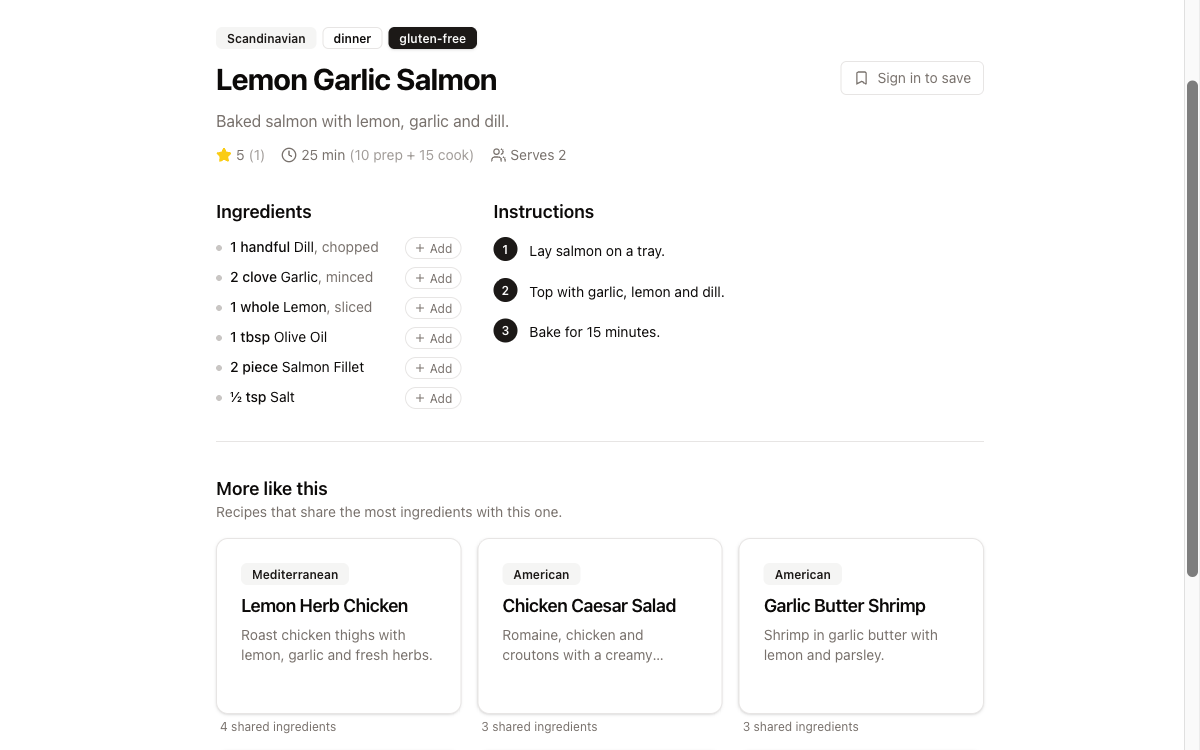
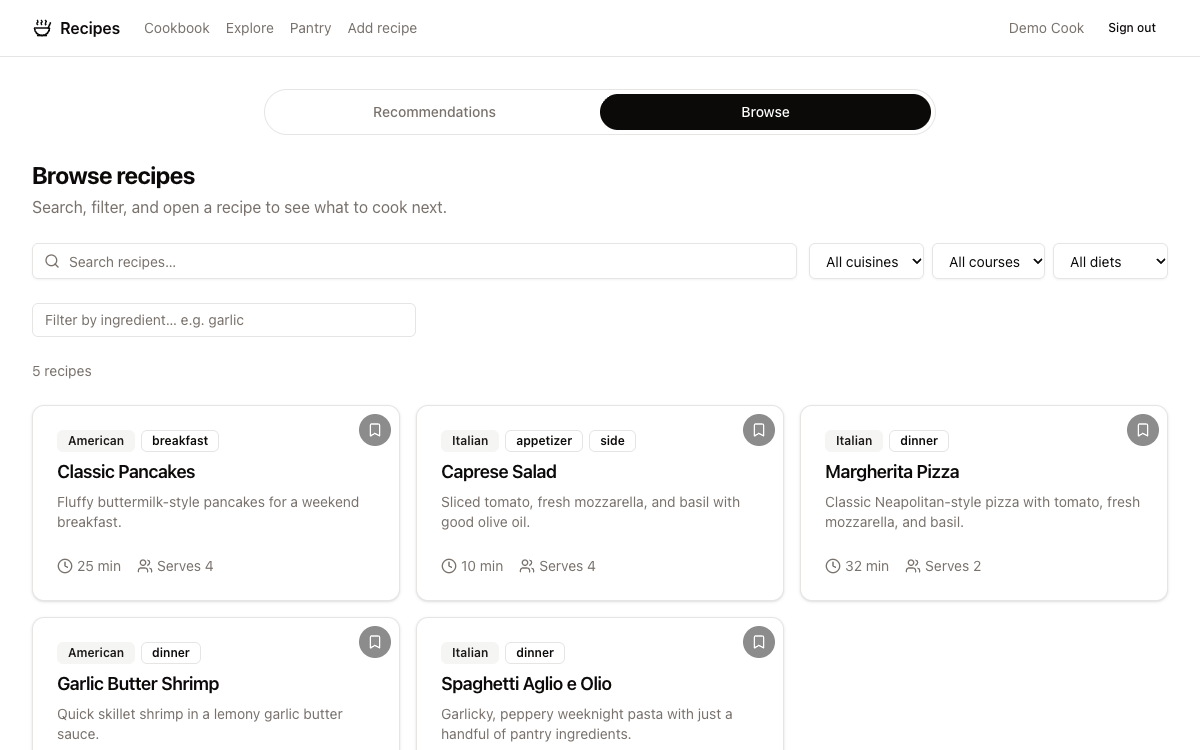
Reorder Apps, add the education and crime paper, move Legal below Data Science
- Recipe Recommendation System gets its own wide row with a new browse-page picture
- Apps rows: Better Habits, Rent vs. Own, Time Tracker; Budget, learning_app, Typing Trainer
- Data Science opens with "Education and Crime across America: Inequity's Cost" (Figure 3a)
- Section order: Apps, Data Science, Legal, About, Contact

diff --git a/index.html b/index.html
@@ -236,6 +236,7 @@ a:focus-visible, button:focus-visible { outline: 3px solid var(--focus); outline
 /* Legal: one full-width feature card (picture left from 992px), then text-only skill cards */
 .cards.feature-row { display: block; }
 .cards.feature-row + .subhead { margin-top: 80px; }
+.cards.feature-row + .cards { margin-top: 30px; }
 @media (min-width: 992px) {
   .cards article.feature {
     display: grid; grid-template-columns: 55% minmax(0, 1fr);
@@ -335,8 +336,8 @@ footer .footer-links a:hover { color: var(--primary); text-decoration: underline
     <nav id="site-nav" class="site-nav" aria-label="Main">
       <ul>
         <li><a href="#apps">Apps</a></li>
-        <li><a href="#legal">Legal</a></li>
         <li><a href="#data-science">Data Science</a></li>
+        <li><a href="#legal">Legal</a></li>
         <li><a href="#about">About</a></li>
         <li><a href="#contact">Contact</a></li>
       </ul>
@@ -355,35 +356,16 @@ footer .footer-links a:hover { color: var(--primary); text-decoration: underline
   <section class="section" id="apps" aria-labelledby="apps-h">
     <div class="container">
       <div class="section-title"><h2 id="apps-h">Apps</h2></div>
+      <div class="cards feature-row">
+      <article class="feature">
+        <h3>Recipe Recommendation System</h3>
+        <figure><a href="https://recipe-recommendation-system-theta.vercel.app" rel="noopener" aria-label="Open the Recipe Recommendation System site, sign-in required"><img src="img/recipe-recommender.png" alt="Screenshot of the Recipe Recommendation System's browse page with search, filters and a grid of recipes" width="1200" height="750" loading="lazy" decoding="async"></a><figcaption>Browsing recipes</figcaption></figure>
+        <p>A recipe app for a circle of friends in which recipes and ingredients live in a Neo4j graph. Recommendations come from graph traversal (shared ingredients, friends' ratings, and pantry matching) rather than a black-box model, and new recipes are structured into the graph from pasted text or photos.</p>
+        <p class="stack">Built with: Neo4j, Next.js (React), Tailwind, Claude API</p>
+        <p class="live"><a href="https://recipe-recommendation-system-theta.vercel.app" rel="noopener">Open the site (sign-in required)</a></p>
+      </article>
+      </div>
       <div class="cards">
-      <article>
-        <h3>Budget</h3>
-        <figure><a href="https://jamesades.com/budget-app/" aria-label="Open the Budget app"><img src="img/budget.png" alt="Screenshot of the Budget app's monthly view with spending by category" width="1200" height="750" loading="lazy" decoding="async"></a><figcaption>Monthly spending by category</figcaption></figure>
-        <p>A private budget tracker for logging each spend as it happens and watching monthly totals build up by category. Charts show the current month by category and the last six months side by side, and data stays in the browser, with optional sync across devices and CSV export.</p>
-        <p class="stack">Built with: HTML, Chart.js; installable as a web app</p>
-        <p class="live"><a href="https://jamesades.com/budget-app/">Open the app</a></p>
-      </article>
-      <article>
-        <h3>Time Tracker + Pomodoro</h3>
-        <figure><a href="https://jamesades.com/work_tracking/" aria-label="Open the Time Tracker app"><img src="img/time-tracker.png" alt="Screenshot of the Time Tracker's Pomodoro timer and daily timeline" width="1200" height="750" loading="lazy" decoding="async"></a><figcaption>Timer and daily timeline</figcaption></figure>
-        <p>A personal time-tracking web app with a built-in Pomodoro timer: create tasks, track time on each, and work in focus periods with breaks. Tracked time appears on a daily timeline as it accrues, and data syncs across laptop and phone.</p>
-        <p class="stack">Built with: JavaScript, HTML, CSS, Supabase, GitHub Pages</p>
-        <p class="live"><a href="https://jamesades.com/work_tracking/">Open the app</a></p>
-      </article>
-      <article>
-        <h3>Adaptive Typing Trainer</h3>
-        <figure><a href="https://jamesades.com/typing_app/" aria-label="Open the Adaptive Typing Trainer app"><img src="img/typing-trainer.png" alt="Screenshot of the Adaptive Typing Trainer's practice screen with the finger-coded keyboard" width="1200" height="750" loading="lazy" decoding="async"></a><figcaption>Practice screen</figcaption></figure>
-        <p>A browser-based typing trainer that has you type real words and sentences while it finds the few keys you are weak on and drills those. A separate beginner course teaches key locations one at a time, with the correct finger shown for every key.</p>
-        <p class="stack">Built with: JavaScript, no dependencies</p>
-        <p class="live"><a href="https://jamesades.com/typing_app/">Open the app</a></p>
-      </article>
-      <article>
-        <h3>learning_app</h3>
-        <figure><a href="https://jamesades.com/learning_app/" aria-label="Open the learning_app app"><img src="img/learning-app.png" alt="Screenshot of learning_app's graph canvas during a review" width="1200" height="750" loading="lazy" decoding="async"></a><figcaption>Studying on the graph</figcaption></figure>
-        <p>A graph-based spaced-repetition tool: you build a spatial graph of ideas and study it by reconstructing it from memory. Due nodes light up on the graph, hints are given only as needed, and reviews are scheduled with FSRS. It works fully offline, with optional cloud sync.</p>
-        <p class="stack">Built with: TypeScript, React, Vite, React Flow, ts-fsrs, Dexie/IndexedDB, Supabase</p>
-        <p class="live"><a href="https://jamesades.com/learning_app/">Open the app</a></p>
-      </article>
       <article>
         <h3>Better Habits</h3>
         <figure><img src="img/better-habits.png" alt="Screenshot of the Better Habits daily check-in screen on iPhone" width="1200" height="750" loading="lazy" decoding="async"><figcaption>Daily check-in</figcaption></figure>
@@ -397,17 +379,80 @@ footer .footer-links a:hover { color: var(--primary); text-decoration: underline
         <p class="stack">Built with: Python, HTML</p>
       </article>
       <article>
-        <h3>Recipe Recommendation System</h3>
-        <figure><a href="https://recipe-recommendation-system-theta.vercel.app" rel="noopener" aria-label="Open the Recipe Recommendation System site, sign-in required"><img src="img/recipe-recommender.png" alt="Screenshot of the Recipe Recommendation System's recipe page with similar recipes" width="1200" height="750" loading="lazy" decoding="async"></a><figcaption>A recipe and its graph neighbors</figcaption></figure>
-        <p>A recipe app for a circle of friends in which recipes and ingredients live in a Neo4j graph. Recommendations come from graph traversal (shared ingredients, friends' ratings, and pantry matching) rather than a black-box model, and new recipes are structured into the graph from pasted text or photos.</p>
-        <p class="stack">Built with: Neo4j, Next.js (React), Tailwind, Claude API</p>
-        <p class="live"><a href="https://recipe-recommendation-system-theta.vercel.app" rel="noopener">Open the site (sign-in required)</a></p>
+        <h3>Time Tracker + Pomodoro</h3>
+        <figure><a href="https://jamesades.com/work_tracking/" aria-label="Open the Time Tracker app"><img src="img/time-tracker.png" alt="Screenshot of the Time Tracker's Pomodoro timer and daily timeline" width="1200" height="750" loading="lazy" decoding="async"></a><figcaption>Timer and daily timeline</figcaption></figure>
+        <p>A personal time-tracking web app with a built-in Pomodoro timer: create tasks, track time on each, and work in focus periods with breaks. Tracked time appears on a daily timeline as it accrues, and data syncs across laptop and phone.</p>
+        <p class="stack">Built with: JavaScript, HTML, CSS, Supabase, GitHub Pages</p>
+        <p class="live"><a href="https://jamesades.com/work_tracking/">Open the app</a></p>
+      </article>
+      <article>
+        <h3>Budget</h3>
+        <figure><a href="https://jamesades.com/budget-app/" aria-label="Open the Budget app"><img src="img/budget.png" alt="Screenshot of the Budget app's monthly view with spending by category" width="1200" height="750" loading="lazy" decoding="async"></a><figcaption>Monthly spending by category</figcaption></figure>
+        <p>A private budget tracker for logging each spend as it happens and watching monthly totals build up by category. Charts show the current month by category and the last six months side by side, and data stays in the browser, with optional sync across devices and CSV export.</p>
+        <p class="stack">Built with: HTML, Chart.js; installable as a web app</p>
+        <p class="live"><a href="https://jamesades.com/budget-app/">Open the app</a></p>
+      </article>
+      <article>
+        <h3>learning_app</h3>
+        <figure><a href="https://jamesades.com/learning_app/" aria-label="Open the learning_app app"><img src="img/learning-app.png" alt="Screenshot of learning_app's graph canvas during a review" width="1200" height="750" loading="lazy" decoding="async"></a><figcaption>Studying on the graph</figcaption></figure>
+        <p>A graph-based spaced-repetition tool: you build a spatial graph of ideas and study it by reconstructing it from memory. Due nodes light up on the graph, hints are given only as needed, and reviews are scheduled with FSRS. It works fully offline, with optional cloud sync.</p>
+        <p class="stack">Built with: TypeScript, React, Vite, React Flow, ts-fsrs, Dexie/IndexedDB, Supabase</p>
+        <p class="live"><a href="https://jamesades.com/learning_app/">Open the app</a></p>
+      </article>
+      <article>
+        <h3>Adaptive Typing Trainer</h3>
+        <figure><a href="https://jamesades.com/typing_app/" aria-label="Open the Adaptive Typing Trainer app"><img src="img/typing-trainer.png" alt="Screenshot of the Adaptive Typing Trainer's practice screen with the finger-coded keyboard" width="1200" height="750" loading="lazy" decoding="async"></a><figcaption>Practice screen</figcaption></figure>
+        <p>A browser-based typing trainer that has you type real words and sentences while it finds the few keys you are weak on and drills those. A separate beginner course teaches key locations one at a time, with the correct finger shown for every key.</p>
+        <p class="stack">Built with: JavaScript, no dependencies</p>
+        <p class="live"><a href="https://jamesades.com/typing_app/">Open the app</a></p>
       </article>
       </div>
     </div>
   </section>
 
-  <section class="section alt" id="legal" aria-labelledby="legal-h">
+
+  <section class="section alt" id="data-science" aria-labelledby="ds-h">
+    <div class="container">
+      <div class="section-title"><h2 id="ds-h">Data Science</h2></div>
+      <div class="cards">
+      <article>
+        <h3>Education and Crime across America: Inequity&rsquo;s Cost</h3>
+        <figure><a href="https://doi.org/10.3390/socsci10080283" rel="noopener" aria-label="Read the paper"><img src="img/education-crime.png" alt="Scatterplots from the paper of student expenditure against property crime and violent crime, 2017, each with a fitted line" width="1200" height="750" loading="lazy" decoding="async"></a><figcaption>Crime by per-pupil spending, 2017 (Figure 3a)</figcaption></figure>
+        <p>A study published in <i>Social Sciences</i> (2021), with Jyoti Mishra, that joins FBI crime statistics for every reporting U.S. town and city with its school district&rsquo;s spending from 2003 to 2018, across more than 213 datasets. Linear mixed-effect models found about 2.35% less property crime for every $1,000 more a district spent per pupil, nearly four times the effect of a 10% rise in per capita income, and 4% more violent crime for every 10-point rise in chronic student absenteeism.</p>
+        <p class="live"><a href="https://doi.org/10.3390/socsci10080283" rel="noopener">Read the paper</a></p>
+      </article>
+      <article>
+        <h3>Behavioral-health network analysis (UC San Diego Health)</h3>
+        <figure><img src="img/network-analysis.png" alt="Map or network figure of behavioral-health services across San Diego County" width="1200" height="750" loading="lazy" decoding="async"><figcaption>Illustrative figure, invented data</figcaption></figure>
+        <p>A network-analysis tool to optimize behavioral-health services across San Diego County, pitched to County Behavioral Health, which adopted it. It is fed by a pipeline that cleans protected health information, provider and other data, with Tableau dashboards for stakeholders.</p>
+      </article>
+      <article>
+        <h3>Housing capstone project (UC San Diego)</h3>
+        <figure><img src="img/housing-capstone.png" alt="Screenshot of the capstone's Dash dashboard of San Diego housing data" width="1200" height="750" loading="lazy" decoding="async"><figcaption>Illustrative figure, invented data</figcaption></figure>
+        <p>A graduate capstone that collected Zillow listings, Yelp business data and 36 Census variables into PostgreSQL, then used XGBoost, random forest, multilevel and spatial regression models to identify high-value homes for low-income families. Results were presented in a Dash and Plotly dashboard and an ArcGIS StoryMap.</p>
+        <p class="stack">Built with: Python (Scrapy, Beautiful Soup, GeoPandas, PySpark, Dask), PostgreSQL, ArcGIS, Dash, Plotly</p>
+      </article>
+      <article>
+        <h3>Acquisitions data pipeline (Sammen)</h3>
+        <figure><img src="img/acquisitions-pipeline.png" alt="Chart comparing the hedonic pricing model with raw comparables" width="1200" height="750" loading="lazy" decoding="async"><figcaption>Illustrative figure, invented data</figcaption></figure>
+        <p>Extracts and structures LoopNet offering memoranda into a comparables dataset. A hedonic pricing model is fit to the data and cross-checked against raw comparables.</p>
+      </article>
+      <article>
+        <h3>spatial_package</h3>
+        <figure><img src="img/spatial-package.png" alt="Example output figure from spatial_package" width="1200" height="750" loading="lazy" decoding="async"><figcaption>Illustrative figure, invented data</figcaption></figure>
+        <p>Functions for spatial analyses.</p>
+      </article>
+      <article>
+        <h3>fspackage</h3>
+        <figure><img src="img/fspackage.png" alt="Example data quality report from fspackage" width="1200" height="750" loading="lazy" decoding="async"><figcaption>Illustrative figure, invented data</figcaption></figure>
+        <p>Data quality checks on FSP.</p>
+        <p class="stack">Built with: R</p>
+      </article>
+      <!-- TODO: ace_thresholds left out pending a description from James. -->
+      </div>
+    </div>
+  </section>
+  <section class="section" id="legal" aria-labelledby="legal-h">
     <div class="container">
       <div class="section-title"><h2 id="legal-h">Legal</h2></div>
       <div class="cards feature-row">
@@ -445,42 +490,6 @@ footer .footer-links a:hover { color: var(--primary); text-decoration: underline
         <h4>Verify the predicate</h4>
         <p>Before saying that a rule prohibits, requires, permits, or exempts something, checks that the rule's trigger condition is true of the situation. Quoting a rule proves that it exists, never that it applies.</p>
       </article>
-      </div>
-    </div>
-  </section>
-
-  <section class="section" id="data-science" aria-labelledby="ds-h">
-    <div class="container">
-      <div class="section-title"><h2 id="ds-h">Data Science</h2></div>
-      <div class="cards">
-      <article>
-        <h3>Behavioral-health network analysis (UC San Diego Health)</h3>
-        <figure><img src="img/network-analysis.png" alt="Map or network figure of behavioral-health services across San Diego County" width="1200" height="750" loading="lazy" decoding="async"><figcaption>Illustrative figure, invented data</figcaption></figure>
-        <p>A network-analysis tool to optimize behavioral-health services across San Diego County, pitched to County Behavioral Health, which adopted it. It is fed by a pipeline that cleans protected health information, provider and other data, with Tableau dashboards for stakeholders.</p>
-      </article>
-      <article>
-        <h3>Housing capstone project (UC San Diego)</h3>
-        <figure><img src="img/housing-capstone.png" alt="Screenshot of the capstone's Dash dashboard of San Diego housing data" width="1200" height="750" loading="lazy" decoding="async"><figcaption>Illustrative figure, invented data</figcaption></figure>
-        <p>A graduate capstone that collected Zillow listings, Yelp business data and 36 Census variables into PostgreSQL, then used XGBoost, random forest, multilevel and spatial regression models to identify high-value homes for low-income families. Results were presented in a Dash and Plotly dashboard and an ArcGIS StoryMap.</p>
-        <p class="stack">Built with: Python (Scrapy, Beautiful Soup, GeoPandas, PySpark, Dask), PostgreSQL, ArcGIS, Dash, Plotly</p>
-      </article>
-      <article>
-        <h3>Acquisitions data pipeline (Sammen)</h3>
-        <figure><img src="img/acquisitions-pipeline.png" alt="Chart comparing the hedonic pricing model with raw comparables" width="1200" height="750" loading="lazy" decoding="async"><figcaption>Illustrative figure, invented data</figcaption></figure>
-        <p>Extracts and structures LoopNet offering memoranda into a comparables dataset. A hedonic pricing model is fit to the data and cross-checked against raw comparables.</p>
-      </article>
-      <article>
-        <h3>spatial_package</h3>
-        <figure><img src="img/spatial-package.png" alt="Example output figure from spatial_package" width="1200" height="750" loading="lazy" decoding="async"><figcaption>Illustrative figure, invented data</figcaption></figure>
-        <p>Functions for spatial analyses.</p>
-      </article>
-      <article>
-        <h3>fspackage</h3>
-        <figure><img src="img/fspackage.png" alt="Example data quality report from fspackage" width="1200" height="750" loading="lazy" decoding="async"><figcaption>Illustrative figure, invented data</figcaption></figure>
-        <p>Data quality checks on FSP.</p>
-        <p class="stack">Built with: R</p>
-      </article>
-      <!-- TODO: ace_thresholds left out pending a description from James. -->
       </div>
     </div>
   </section>

diff --git a/README.md b/README.md
@@ -5,13 +5,13 @@ Status: live at https://jamesades.com (GitHub Pages, repository `james-ades/jame
 
 ## Features
 
-- One page titled with the name "James Ades", with tabs for Apps, Legal, Data Science, About, and Contact that jump to each section.
+- One page titled with the name "James Ades", with tabs for Apps, Data Science, Legal, About, and Contact that jump to each section.
 - A full-width hero with a photo of the San Diego skyline, the name, a one-line description, and a button to the projects. The menu sits over the photo and becomes a white bar once the page scrolls.
-- Twelve project cards in rows of three (seven under Apps, five under Data Science), each with a picture, a short description, and a "Built with" line where the stack is known. An incomplete last row is centered.
+- Thirteen project cards, each with a picture, a short description, and a "Built with" line where the stack is known. Under Apps, the Recipe Recommendation System is a wide card on its own row (picture left, text right on wider screens), followed by two rows of three: Better Habits, Rent vs. Own, Time Tracker; then Budget, learning_app, Adaptive Typing Trainer. Data Science has six cards in rows of three, led by the published paper "Education and Crime across America: Inequity's Cost", which links to the paper. An incomplete last row is centered.
 - A Legal section: a wide card for the case citator with a link to an interactive example, and six text cards (the mediation packet builder and five Claude Code skills: case-law retrieval, evidence extraction, redline, operative version, verify the predicate).
 - A case citator example page at `citator/`: a network of 50 published California cases colored by signal; selecting a case shows its place on the four-step status ladder and the cases that cite it, grouped by treatment, each with the quoted passage and its page. The page says its signals reflect the passages read when the sample was made and are not a current check of any case. It is kept out of search indexes.
-- The five Data Science pictures are illustrations made from invented data, and each says so in its caption and in the image.
-- Projects with a live site link to it, and their picture is a clickable thumbnail (four apps and the recipe site, all under Apps; five thumbnails).
+- Five of the Data Science pictures are illustrations made from invented data, and each says so in its caption and in the image.
+- Projects with a live site link to it, and their picture is a clickable thumbnail (four apps and the recipe site under Apps, and the paper under Data Science; six thumbnails).
 - A Contact section linking to LinkedIn, ResearchGate, GitHub, and Instagram. Google Scholar and ORCID are small text links in the footer and are also in the page's search metadata. No email address, phone number, or contact form.
 - An About paragraph that links to the Sammen founder page at sammenhomes.com/about.
 - Light and dark modes that follow the visitor's system setting.
